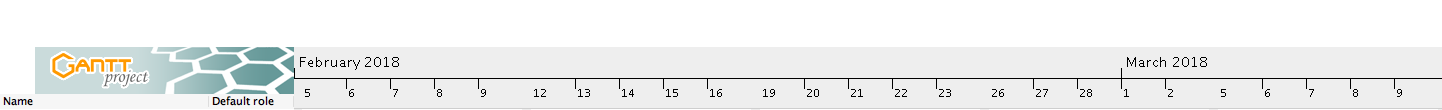
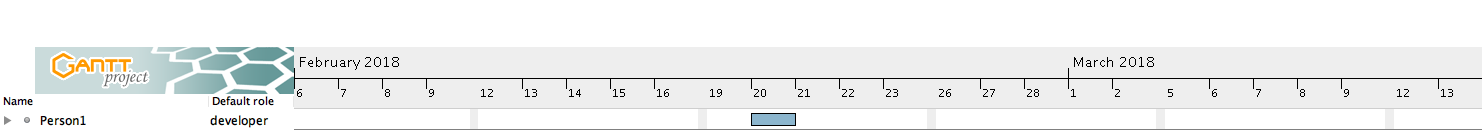
2nd Trial

diff --git a/index-tasks.html b/index-tasks.html
@@ -154,7 +154,37 @@ h5.header {
 <tr>
 <td valign="top" class="cell">
 <div style="margin:0; padding:0; padding-left:0em">
-<div style="margin: 0; padding: 0;">Project Plan</div>
+<div style="margin: 0; padding: 0;">task_0</div>
+</div>
+</td><td valign="top" class="cell">
+<div style="margin:0; padding:0; padding-left:0.5em">
+<div style="margin: 0; padding: 0;">2/20/18</div>
+</div>
+</td><td valign="top" class="cell">
+<div style="margin:0; padding:0; padding-left:0.5em">
+<div style="margin: 0; padding: 0;">2/20/18</div>
+</div>
+</td><td valign="top" class="cell">Person1</td>
+</tr>
+<tr>
+<td valign="top" class="cell">
+<div style="margin:0; padding:0; padding-left:0em">
+<div style="margin: 0; padding: 0;">task_1</div>
+</div>
+</td><td valign="top" class="cell">
+<div style="margin:0; padding:0; padding-left:0.5em">
+<div style="margin: 0; padding: 0;">2/8/18</div>
+</div>
+</td><td valign="top" class="cell">
+<div style="margin:0; padding:0; padding-left:0.5em">
+<div style="margin: 0; padding: 0;">2/19/18</div>
+</div>
+</td><td valign="top" class="cell"></td>
+</tr>
+<tr>
+<td valign="top" class="cell">
+<div style="margin:0; padding:0; padding-left:0em">
+<div style="margin: 0; padding: 0;">task_2</div>
 </div>
 </td><td valign="top" class="cell">
 <div style="margin:0; padding:0; padding-left:0.5em">
@@ -162,7 +192,7 @@ h5.header {
 </div>
 </td><td valign="top" class="cell">
 <div style="margin:0; padding:0; padding-left:0.5em">
-<div style="margin: 0; padding: 0;">2/26/18</div>
+<div style="margin: 0; padding: 0;">2/6/18</div>
 </div>
 </td><td valign="top" class="cell"></td>
 </tr>
@@ -173,7 +203,7 @@ h5.header {
 <tr>
 <td bgcolor="#6d9ec6" width="50%"><font color="#FFFFFF"><b>Ganttproject (2.8.5 Pilsen (build 2179))</b></font></td><td bgcolor="#6d9ec6" width="50%" align="right"><b><a href="http://ganttproject.biz">ganttproject.biz</a></b>
 <br>
-<b>2/6/18 - 2:57:07 PM</b></td>
+<b>2/6/18 - 3:28:53 PM</b></td>
 </tr>
 </table>
 </body>

diff --git a/index-resources.html b/index-resources.html
@@ -147,6 +147,9 @@ h5.header {
 <h5 class="header">Default role</h5>
 </td>
 </tr>
+<tr>
+<td valign="top" class="cell">Person1</td><td valign="top" class="cell">developer</td>
+</tr>
 </table>
 <br>
 <br>
@@ -157,7 +160,7 @@ h5.header {
 <tr>
 <td bgcolor="#6d9ec6" width="50%"><font color="#FFFFFF"><b>Ganttproject (2.8.5 Pilsen (build 2179))</b></font></td><td bgcolor="#6d9ec6" width="50%" align="right"><b><a href="http://ganttproject.biz">ganttproject.biz</a></b>
 <br>
-<b>2/6/18 - 2:57:07 PM</b></td>
+<b>2/6/18 - 3:28:53 PM</b></td>
 </tr>
 </table>
 </body>

diff --git a/index-chart.html b/index-chart.html
@@ -122,7 +122,7 @@ div.page_links {
 <tr>
 <td bgcolor="#6d9ec6" width="50%"><font color="#FFFFFF"><b>Ganttproject (2.8.5 Pilsen (build 2179))</b></font></td><td bgcolor="#6d9ec6" width="50%" align="right"><b><a href="http://ganttproject.biz">ganttproject.biz</a></b>
 <br>
-<b>2/6/18 - 2:57:07 PM</b></td>
+<b>2/6/18 - 3:28:53 PM</b></td>
 </tr>
 </table>
 </body>

diff --git a/index.html b/index.html
@@ -152,7 +152,7 @@ div.page_links {
 <tr>
 <td bgcolor="#6d9ec6" width="50%"><font color="#FFFFFF"><b>Ganttproject (2.8.5 Pilsen (build 2179))</b></font></td><td bgcolor="#6d9ec6" width="50%" align="right"><b><a href="http://ganttproject.biz">ganttproject.biz</a></b>
 <br>
-<b>2/6/18 - 2:57:07 PM</b></td>
+<b>2/6/18 - 3:28:53 PM</b></td>
 </tr>
 </table>
 </body>
